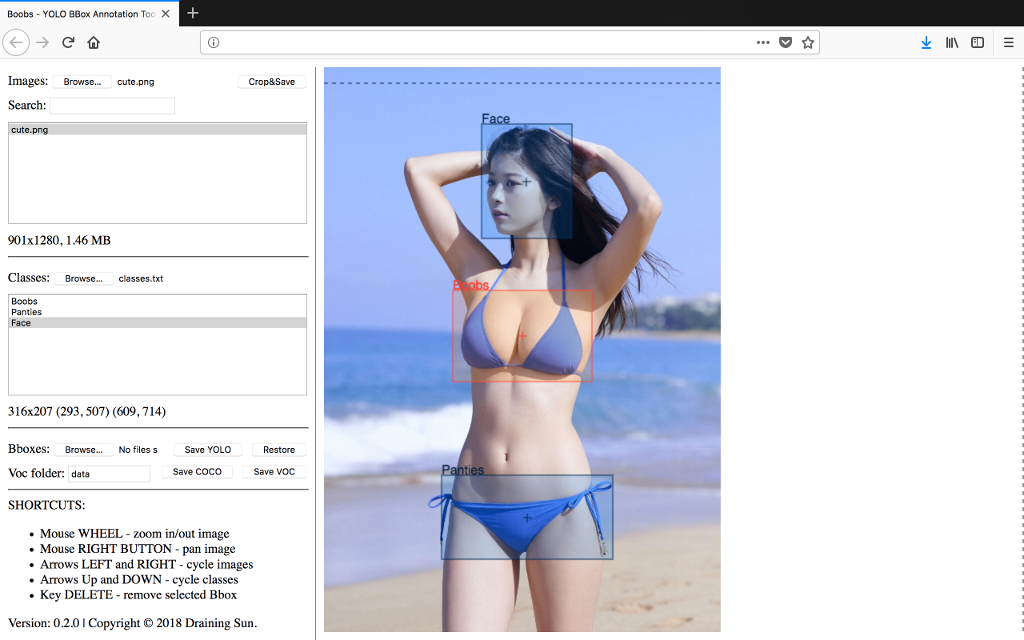
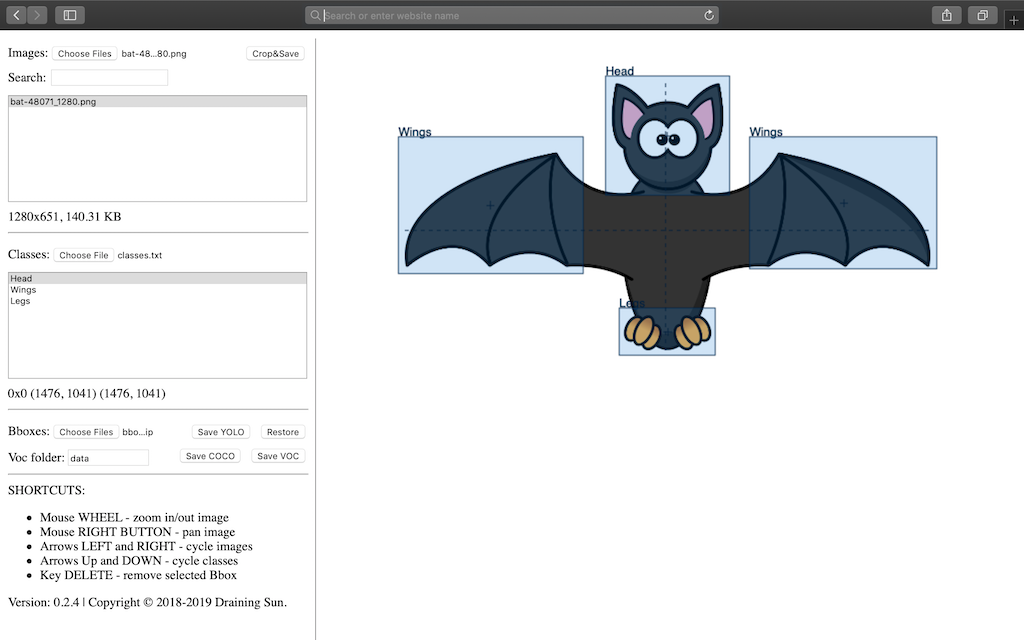
v0.2.5

diff --git a/ybat.html b/ybat.html
@@ -2,15 +2,15 @@
 <html lang="en">
 <head>
     <meta charset="UTF-8">
-    <title>Boobs - YOLO BBox Annotation Tool</title>
+    <title>Ybat - YOLO BBox Annotation Tool</title>
 
-    <link href="boobs.css" rel="stylesheet">
+    <link href="ybat.css" rel="stylesheet">
 
     <script src="canvas.min.js"></script>
     <script src="jszip.min.js"></script>
     <script src="filesaver.min.js"></script>
 
-    <script src="boobs.js"></script>
+    <script src="ybat.js"></script>
 </head>
 <body>
     <div class="container" id="container">
@@ -73,7 +73,7 @@
                         </li>
                     </ul>
 
-                    <p>Version: 0.2.4 | Copyright © 2018-2019 Draining Sun.</p>
+                    <p>Version: 0.2.5 | Copyright © 2018-2019 Draining Sun.</p>
                 </div>
             </form>
         </div>

diff --git a/README.md b/README.md
@@ -1,19 +1,19 @@
-# Boobs - YOLO BBox Annotation Tool
+# Ybat - YOLO BBox Annotation Tool
 Fast and efficient BBox annotation for your images in YOLO, and now, VOC/COCO formats!
 
 ## INTRO
-To see why and for what this was created, please read [Boobs - YOLO BBox Annotation Tool](https://medium.com/@drainingsun/boobs-yolo-bbox-annotation-tool-96fb765d0036)
+To see why and for what this was created, please read [Ybat - YOLO BBox Annotation Tool](https://medium.com/@drainingsun/ybat-yolo-bbox-annotation-tool-96fb765d0036)
 
 ![Sample](cute.png)
 
 ## USAGE
 1. Download the zip.
 2. Extract it.
-3. Open `boobs.html` in your browser.
+3. Open `ybat.html` in your browser.
 4. Load images and classes and start bboxing!
 
 ## CONFIGURATION
-1. Open boobs.js.
+1. Open ybat.js.
 2. Edit section named `parameters`.
 
 ## COMPATIBILITY

diff --git a/CHANGELOG.md b/CHANGELOG.md
@@ -1,3 +1,7 @@
+# 2019-12-02, v0.2.5
+Renamed project to make it more fit for professional environment.
+Replaced sample image.
+
 # 2019-04-08, v0.2.4
 * Fixed VOC format not exporting objects correctly.
 * Updated copyrights.
